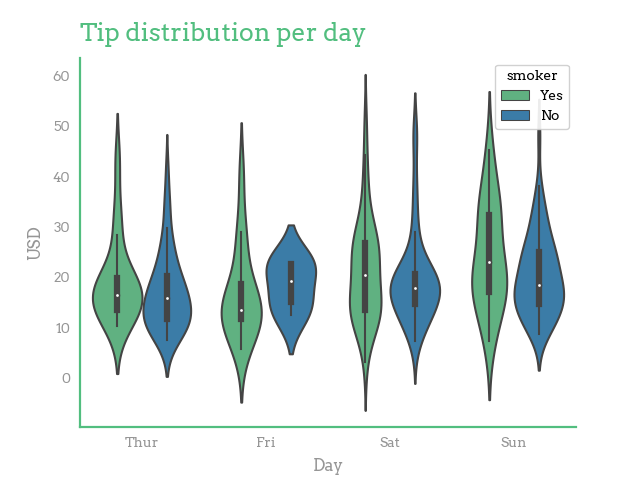
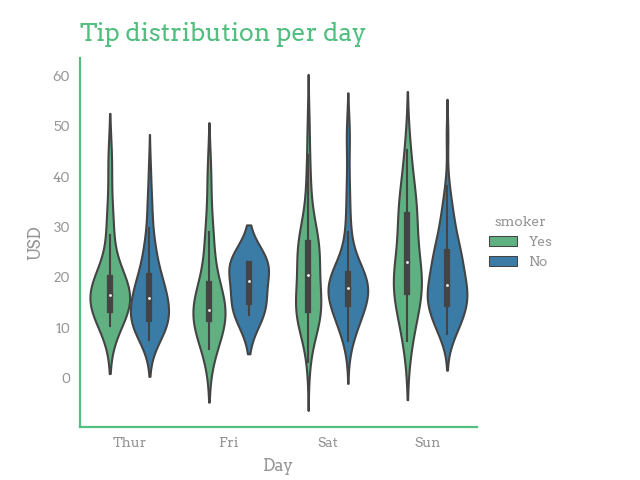
updated legend + ci.yml

diff --git a/rootsstyle/__main__.py b/rootsstyle/__main__.py
@@ -3,19 +3,20 @@
 - loads the necessary fonts
 - defines the style dictionary
 """
-
+import numpy as np
 from pathlib import Path
 import matplotlib as mpl
+import matplotlib.pyplot as plt
 import matplotlib.font_manager as fm
 
 colors = {
-    "green_light": "52BE7F",
-    "green_dark": "27AE60",
-    "blue_dark": "2980B9",
-    "blue_light": "3498DB",
-    "blue_navy": "34495D",
-    "gray": "969696",
-    "gray_light": "bfc7e2",
+    "green_light": "#52BE7F",
+    "green_dark": "#27AE60",
+    "blue_dark": "#2980B9",
+    "blue_light": "#3498DB",
+    "blue_navy": "#34495D",
+    "gray": "#969696",
+    "gray_light": "#bfc7e2",
 }
 
 _fonts_dir = Path(__file__).parent.parent.joinpath("fonts")
@@ -51,7 +52,7 @@ style = {
     "axes.spines.top": False,
     "axes.spines.right": False,
     # LEGEND
-    "legend.framealpha": 0.9,
+    "legend.framealpha": 0,
     # COLORS
     "axes.prop_cycle": mpl.cycler(
         color=[
@@ -64,3 +65,38 @@ style = {
         ],
     ),
 }
+
+#Inspiration: https://github.com/nschloe/dufte
+def line_legend(ax=None):
+    ax = ax or plt.gca()
+    lines = [child for child in ax.get_children() if type(child)==mpl.lines.Line2D]
+    if len(lines)==0:
+        return
+    labels = [line.get_label() for line in lines]
+    colors = [line.get_color() for line in lines]
+
+    targets = [ line.get_ydata()[~np.isnan(line.get_ydata())][-1] for line in lines]
+    ymax = ax.get_ylim()[1]
+    targets = [min(target, ymax) for target in targets]
+
+    axis_to_data = ax.transAxes + ax.transData.inverted()
+    xpos = axis_to_data.transform([1.03, 1.0])[0]
+    for label, ypos, color in zip(labels, targets, colors):
+        plt.text(xpos, ypos, label, verticalalignment="center", color=color)
+
+def legend(title=None):
+    """Displays the legend to the left of the plot.
+    For lineplots, displays each line legend next to the line.
+    """
+    ax = plt.gca()
+    box = ax.get_position()
+    ax.set_position([box.x0, box.y0, box.width * 0.8, box.height])
+    if ax.legend_ is not None: #e.g. seaborn already set legend
+        existing_title = ax.legend_.get_title()._text 
+        title = title or existing_title
+    legend = ax.legend(title=title, loc='center left', bbox_to_anchor=(1, 0.5))
+    [text.set_color(colors['gray']) for text in legend.get_texts()]
+    #For seaborn plots, update title
+    legend.get_title().set_color(colors['gray'])
+    if title is not None:
+        legend.set_title(title)

diff --git a/tests/test_rootsstyle.py b/tests/test_rootsstyle.py
@@ -15,11 +15,11 @@ def test_scatterplot():
     with plt.style.context(rootsstyle.style):
         x = np.arange(start=0, stop=nb_dots, step=1)
         y = np.random.rand(nb_dots, nb_series)
-        plt.plot(x, y, linestyle="none", marker="o")
+        plt.plot(x, y, linestyle="none", marker="o", label=[f"series {i}" for i in range(nb_series)])
         plt.title("A scatter plot with rootsstyle")
         plt.xlabel(f"range from 0 to {nb_dots}")
         plt.ylabel("random values from 0 to 1")
-        plt.legend([f"series {i}" for i in range(nb_series)])
+        rootsstyle.legend()
         assert plt.gcf().number == 1
         plt.savefig("images/scatterplot.png", transparent=True)
         plt.close()
@@ -38,6 +38,7 @@ def test_barplot_seaborn():
         plt.title("Average total bill per day per gender")
         plt.xlabel("Day")
         plt.ylabel("Total bill [$]")
+        rootsstyle.legend()
         assert plt.gcf().number == 1
         plt.savefig("images/barplot_tips.png", transparent=True)
         plt.close()
@@ -81,6 +82,7 @@ def test_violin_plot():
         plt.title("Tip distribution per day")
         plt.xlabel("Day")
         plt.ylabel("USD")
+        rootsstyle.legend()
         assert plt.gcf().number == 1
         plt.savefig("images/violinplot.png", transparent=True)
         plt.close()

diff --git a/rootsstyle/__init__.py b/rootsstyle/__init__.py
@@ -1,4 +1,4 @@
-from .__main__ import style
+from .__main__ import style, legend
 
 __version__ = "0.1.0"
-__all__ = ["style"]
+__all__ = ["style", "legend"]

diff --git a/README.md b/README.md
@@ -40,12 +40,15 @@ with plt.style.context(rootsstyle.style):
 
 ## TODO
 
-- Find better spot/visualization for legend
-- Auto install matplotlib with package installation
+### VISUALS
 - Add more colors
+- Legend for line graphs (next to lines)
+
+### TECHNICALITIES
+- Auto install matplotlib with package installation
 - Add python badge to show which python versions are supported
 - GitHub workflow to publish on pull-request
-- Using poetry install in ci.yml 
+- Using poetry install in ci.yml
 
 
 
